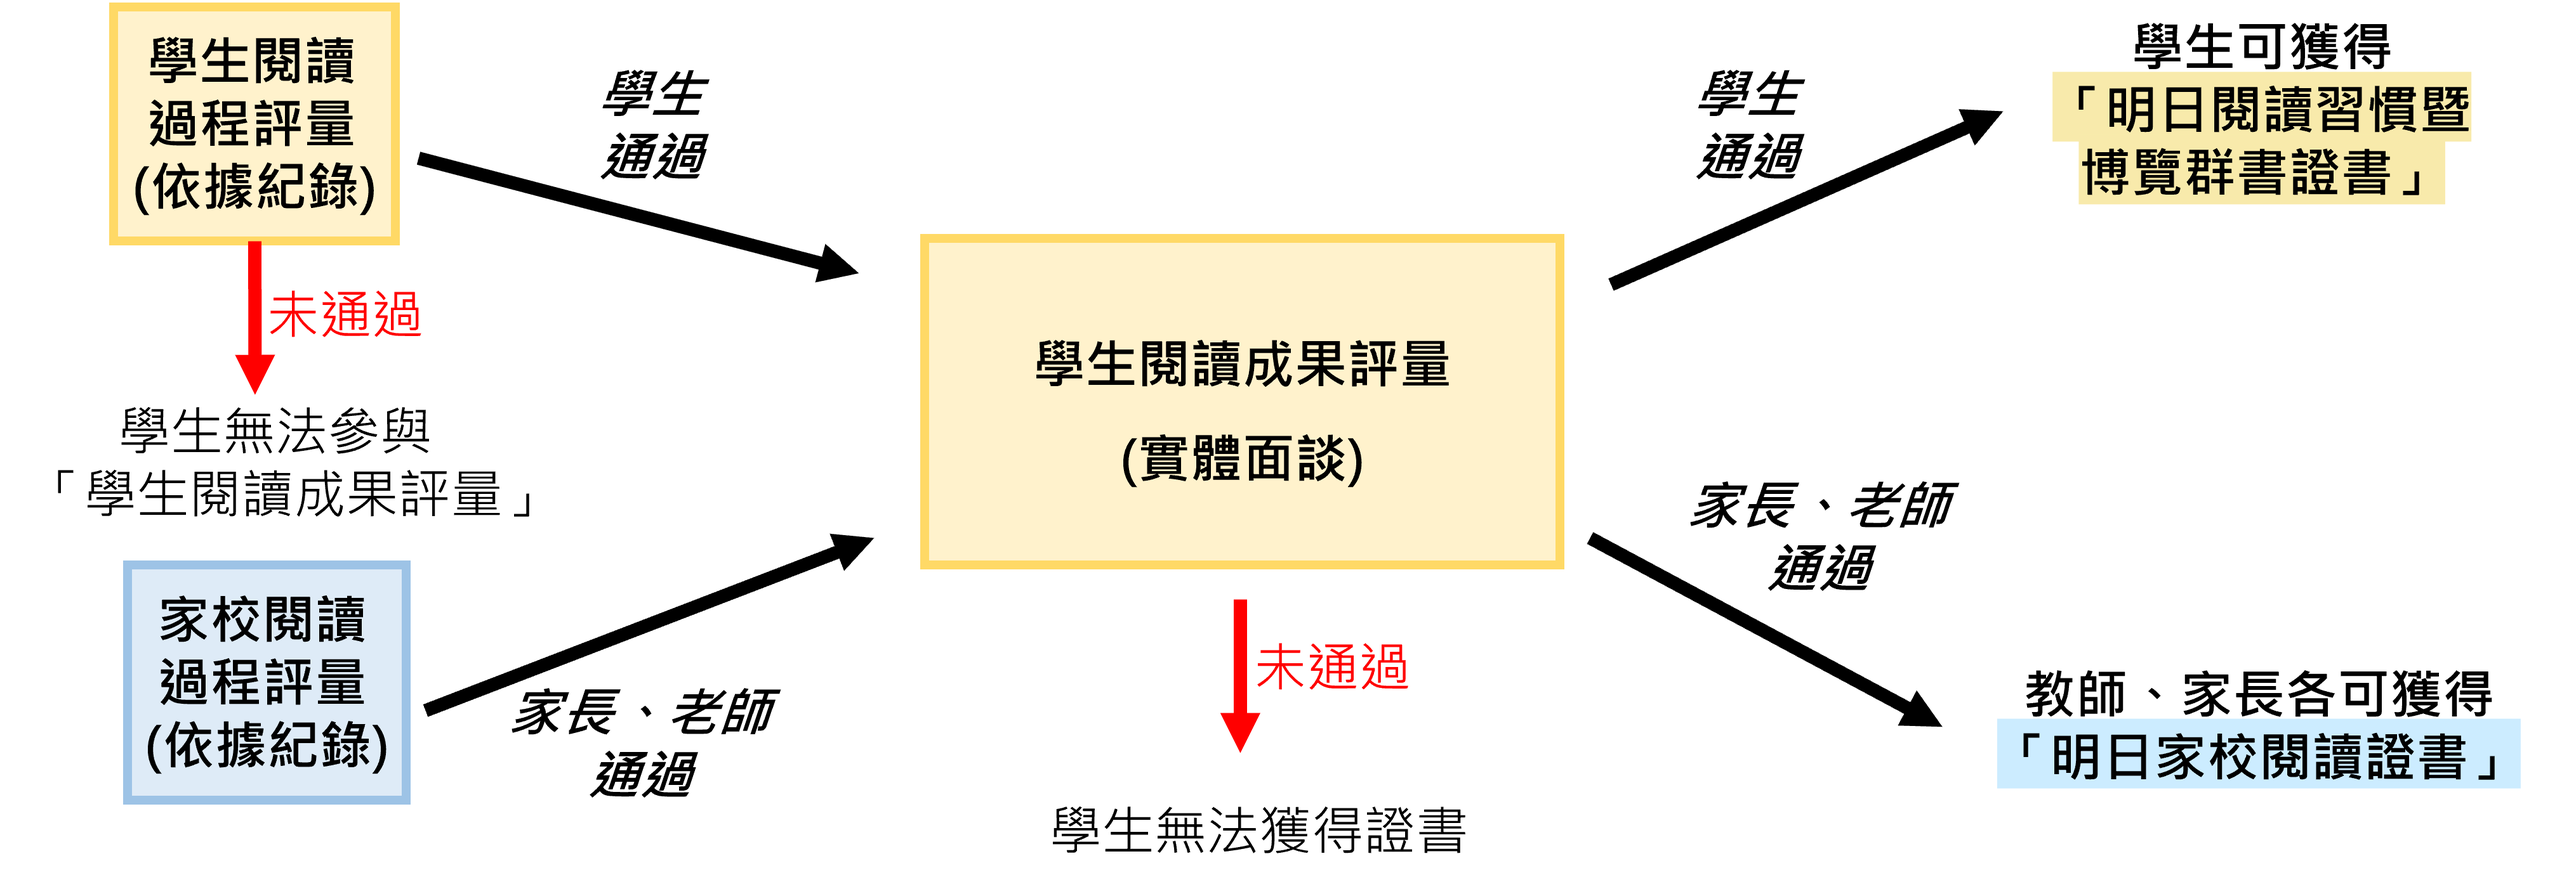
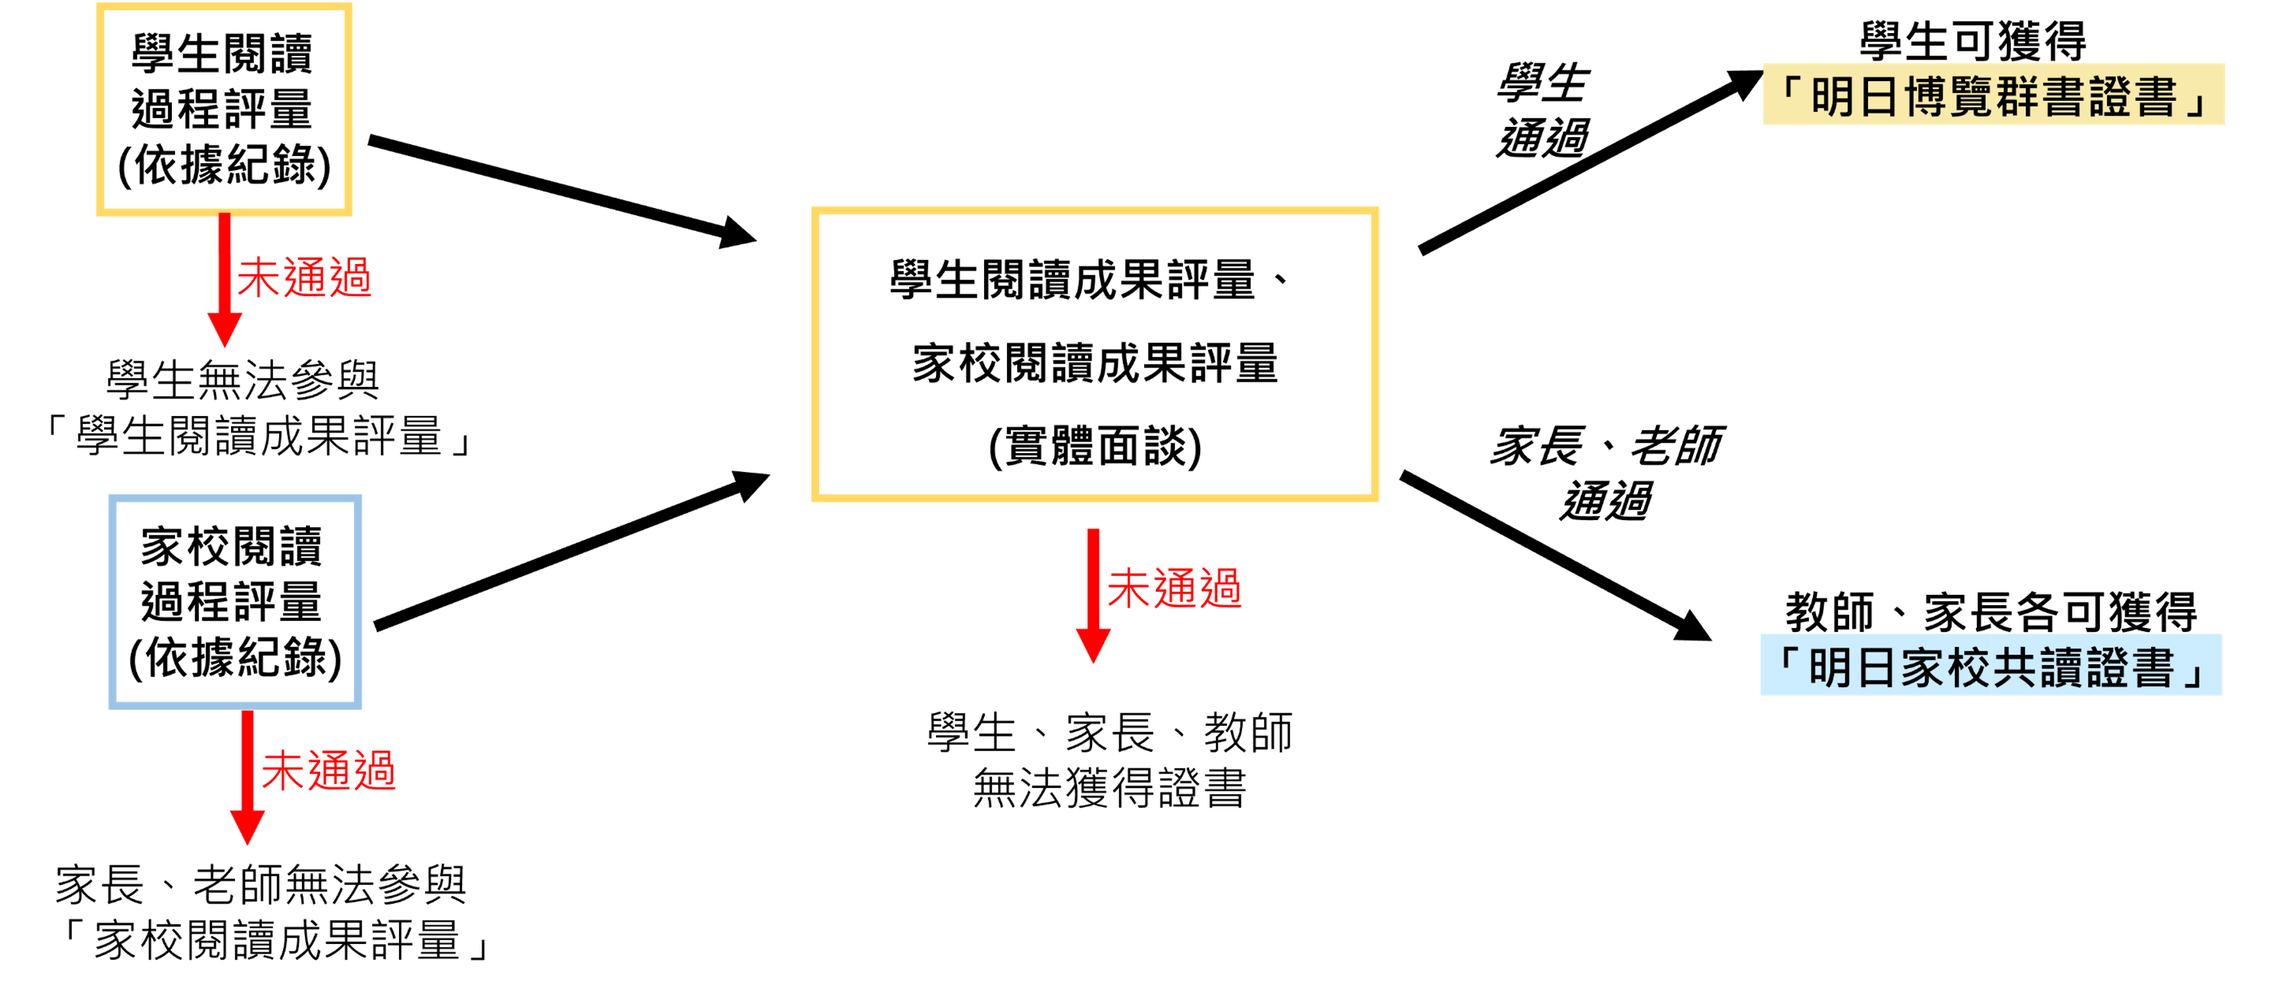
第二屆個人

diff --git a/2nd_session/student/index.html b/2nd_session/student/index.html
@@ -57,7 +57,7 @@
         <!-- Header -->
         <header class="primary-header bg-dark pt-3" style="color: yellow; font-size: 46px;">
             <div class="container text-center">
-                <div class="h1 fw-bold">「閱讀習慣運動」</div>
+                <div class="h1 fw-bold">「家校共讀運動」</div>
                 <div class="h4 fw-bold mt-3 pb-3" style="margin-bottom: 0;">學校帶動家庭，建立閱讀紙本書籍習慣以取代手機育兒</div>
             </div>
         </header>
@@ -297,11 +297,11 @@
                         <section class="certification-idea">
                             <div class="certification-idea-content">
                                 <div class="vertucal-text lh-lg">
-                                    <h1>閱讀習慣運動</h1>
+                                    <h1>家校共讀運動</h1>
                                     <h3>學校帶動家庭，建立閱讀紙本書籍習慣以取代手機育兒</h3>
                                     <p><br></p>
                                     <p>
-                                        因應數位時代教育的挑戰，國立中央大學推動「閱讀習慣運動」，以取代手機育兒。經過十多年推廣，台灣已有2,000多所國中小學參與「明日閱讀」計畫。在此基礎上，國立中央大學協同「中華明日閱讀協會」，正試辦「明日閱讀習慣博覽會」，從「明日閱讀1.0」演進為「明日閱讀2.0」，期以深化閱讀文化，培養學生長期穩定的閱讀紙本書習慣，為未來社會培育具備深度思維與知識力的新世代公民。
+                                        因應數位時代教育的挑戰，國立中央大學推動「家校共讀運動」，以取代手機育兒。經過十多年推廣，台灣已有2,000多所國中小學參與「明日閱讀」計畫。在此基礎上，國立中央大學協同「中華明日閱讀協會」，舉辦「明日閱讀習慣暨家校共讀博覽會」，從「明日閱讀1.0」演進為「明日閱讀2.0」，期以深化閱讀文化，培養學生長期穩定的閱讀紙本書習慣，為未來社會培育具備深度思維與知識力的新世代公民。
                                     </p>
                                     <p>
                                         數位媒體早已無所不在<span class="dash">—</span>在家裡、學校、辦公室、車上，甚至在皮包與口袋裡。
@@ -637,7 +637,7 @@
                             <div class="process-item">
                                 <h3 class="phase-title text-center">親師生閱讀登記平台</h3>
                                 <p style="text-align: justify; text-indent:0;">
-                                    活動期間須繳交「學生閱讀過程階段」及「家校閱讀過程階段」成果資料兩次，包含閱讀登記、照片與影片上傳、回饋表單填寫以及閱讀狀況討論，均使用「親師生閱讀登記平台」。進行登錄上傳。學生、家長、班級導師之個人專屬平台帳號與密碼將於報名成功後寄發。
+                                    活動期間須繳交「學生閱讀過程階段」及「家校閱讀過程階段」成果資料兩次，包含閱讀登記、照片與影片上傳、回饋表單填寫以及閱讀狀況討論，均使用「親師生閱讀登記平台」。進行登錄上傳。學生、家長、班級導師之個人專屬帳號與密碼將於報名成功後寄發。
                                 </p>
                                 <!-- <P> -->
                                 <a href="https://www.readingfortomorrow.org/vora.php" target="_blank">
@@ -760,7 +760,7 @@
                                         「學生閱讀過程評量」及「學生閱讀成果評量」審查均通過，授予學生【明日博覽群書證書】乙幀。
                                     </li>
                                     <li>
-                                        「家校閱讀過程評量」審查通過，授予班級導師及家長【明日家校閱讀證書】各乙幀。
+                                        「家校閱讀過程評量」審查通過，授予班級導師及家長【明日家校共讀證書】各乙幀。
                                     </li>
                                 </ol>
                             </div>
@@ -835,7 +835,7 @@
                                 <div class="book-item">
                                     <h5 class="phase-title text-center">博覽群書及三大領域介紹</h5>
                                     <p>
-                                        為了有系統地幫助親師引導學生閱讀的書籍能兼顧廣度與深度，「明日閱讀習慣及家校閱讀博覽會」每屆依據教師與專家學者的建議， 更新
+                                        為了有系統地幫助親師引導學生閱讀的書籍能兼顧廣度與深度，「明日閱讀習慣暨家校共讀博覽會」每屆依據教師與專家學者的建議， 更新
                                         <strong>『書籍地圖』</strong>，作為親師生選書與閱讀規劃的參考依據。
                                     </p>
                                     <p>
@@ -956,40 +956,40 @@
                             <!-- 閱讀規劃（預設顯示） -->
                             <section class="tab-pane fade show fade book" id="readingPlan">
                                 <div class="book-item ">
-                                    <h5 class="phase-title text-center">各等級書目程度說明</h5>
+                                    <h5 class="phase-title text-center">各級別書目程度</h5>
                                     <p style="text-indent: 0;">
                                         ◆&nbsp<strong>國小二年級等級：</strong>以國小二年級程度書籍為主，一年級難度書籍為輔；<br> ◆&nbsp
                                         <strong>國小四年級等級：</strong>以國小四年級程度書籍為主，三年級難度書籍為輔；<br> ◆&nbsp
                                         <strong>國小六年級等級：</strong>以國小六年級程度書籍為主，五年級難度書籍為輔；<br> ◆&nbsp
                                         <strong>國中級等級：</strong>以國中二年級程度書籍為主，國中一、三年級難度書籍為輔；<br> ◆&nbsp
-                                        <strong>高中級等級：</strong>以高中二年級程度書籍為主，高中一、三年級難度書籍為輔。<br> 各年級書籍由專家老師挑選，並參考教育部推薦書單與文化部推薦書單。
+                                        <strong>高中級等級：</strong>以高中二年級程度書籍為主，高中一、三年級難度書籍為輔。<br> 本活動所訂定之各等級書目，由專家教師評選，並參考教育部及文化部推薦書單。
                                         </span>
                                         <!--（每兩屆會請專家老師調整書）-->
                                     </p>
                                     <p>
-                                        參與認證的學生可自行評估閱讀能力，挑選合適的認證級別，並針對該認證級別的規劃及書籍內容進行閱讀活動。<br> 例如：二年級學生可報名二年級等級或四年級等級，四年級學生可報名四年級等級或國中等級，六年級學生可報名六年級等級或高中等級，並依照該等級的認證規劃進行閱讀活動。
+                                        參與認證的學生可自行評估閱讀能力，挑選合適的認證級別，並針對該認證級別的規劃及書籍內容進行閱讀活動。<br> 學生可依自身閱讀能力，擇一等級參加。[例]四年級學生評估自身閱讀能力後，可選擇參加四年級等級，或六年級等級，或國中等級認證。
                                     </p>
                                 </div>
                                 <!-- 書籍種類介紹 -->
                                 <div class="book-item">
                                     <h5 class="phase-title text-center">書籍種類</h5>
                                     <p>
-                                        各等級書目中，規劃三種書籍種類：核心書、選讀書、自選書，為學生提供系統性且多元的閱讀指引，逐步拓展其閱讀視野。
+                                        各級別書目均劃分三種類書籍：核心書、選讀書、自選書，為學生提供系統性且多元的閱讀指引，逐步拓展其閱讀視野。
                                     </p>
                                     <p>
                                         ◆&nbsp<strong>核心書：</strong> 由多位專家教師於
                                         <span class="bold">科學技術、故事小說、人文社會</span>以及<span class="bold">跨域</span>四大領域中，評選與推薦適合不同學習階段的書籍。
                                     </p>
                                     <p>
-                                        ◆&nbsp<strong>選讀書：</strong> 由
-                                        <span class="bold">科學技術、故事小說</span>以及<span class="bold">人文社會</span>三大領域中獲獎與文化部及教育部推薦之書籍。
+                                        ◆&nbsp<strong>選讀書：</strong>含括
+                                        <span class="bold">科學技術、故事小說</span>以及<span class="bold">人文社會</span>三大領域之獲獎書籍，以及文化部、教育部推薦書籍。
                                     </p>
                                     <p>
-                                        ◆&nbsp<strong>自選書：</strong> 鼓勵家長定期帶領學生前往圖書館或書店選書、借閱或購買書籍，以促進親子互動，同時培養學生自主探索的能力，並建立個人閱讀興趣與習慣，
-                                        <strong>學生須自行選擇本書籍地圖以外的書籍作為自選閱讀書目</strong>。惟不可選讀漫畫、雜誌、工具書。
+                                        ◆&nbsp<strong>自選書：</strong> 鼓勵家長定期帶領學生前往圖書館或書店選書、借閱或購買書籍，以促進親子互動，同時培養學生自主探索的能力，並建立個人閱讀興趣與習慣。
+                                        <strong>學生須自行選擇本書籍地圖以外的書籍作為自選閱讀書目</strong>，惟不可選讀漫畫、雜誌、工具書。
                                     </p>
                                     <p>
-                                        參與認證與比賽活動期間，各認證級別提供固定書目（如下表）。
+                                        本活動所訂定之各級別書目，其總數如下表。
                                     </p>
                                     <div class="container">
                                         <div class="table-responsive">
@@ -1038,8 +1038,10 @@
                                 <div class="book-item">
                                     <h5 class="phase-title text-center">認證積分說明</h5>
                                     <p style="text-indent: 0;"><strong>計分規則：</strong></p>
-                                    <p> ◆&nbsp<strong>閱讀積分 = </strong>書籍種類積分 + 書籍深度積分 （例如：登記 1 本深度為「橋梁書」的「核心書」= 25 + 5，可獲得 30 分。）</p>
-                                    <p> ◆&nbsp<strong>說書積分 = </strong>每上傳 1 部「自選書」說書影片可加 25 分，每月最多上傳 2 部。</p>
+                                    <p> ◆&nbsp<strong>閱讀積分 = </strong>書籍種類積分 + 書籍深度積分
+                                        <br>&nbsp;&nbsp;&nbsp;&nbsp;&nbsp;&nbsp;[例]登記 1 本深度為「橋梁書」的「核心書」= 25 + 5，可獲得 30 分。
+                                        <br>&nbsp;&nbsp;&nbsp;&nbsp;&nbsp;&nbsp;[例]登記1本深度為「中階文字書」的「選讀書」，可獲得15 + 20 = 35分。</p>
+                                    <p> ◆&nbsp<strong>說書積分 = </strong>每上傳 1 部「自選書」說書影片可獲得 25 分，每月上傳至多 2 部。</p>
                                     <p> ◆&nbsp<strong>認證總積分 = </strong>閱讀總積分 +說書總積分</p>
                                     <div class="container">
                                         <p style="text-indent: 0;"><strong>書籍種類積分：</strong></p>
@@ -1063,7 +1065,7 @@
                                                 </tbody>
                                             </table>
                                         </div>
-                                        <p style="text-indent: 0;"><strong>書籍深度積分：</strong></p>
+                                        <p style="text-indent: 0;"><strong>書籍深度積分：（自選書不列入計算書籍深度積分）</strong></p>
                                         <div class="table-responsive">
                                             <table class="table table-striped table-bordered text-center align-middle mx-auto" style="width: 90%; table-layout: auto;">
                                                 <thead>
@@ -1269,9 +1271,9 @@
                                 <h5 class="phase-title text-center ">認證等級</h5>
                                 <!-- <ol>
                                 <li>本活動每位學生<span class="bold">新台幣1,000元</span>整。
-                                <li>過程階段中途退出或未通過者，予以退費新台幣300元整。
-                                <li>持有清寒證明或中低收入戶證明者，免收報名費。
-                            </ol> -->
+                                        <li>過程階段中途退出或未通過者，予以退費新台幣300元整。
+                                            <li>持有清寒證明或中低收入戶證明者，免收報名費。
+                                                </ol> -->
                                 <p>本活動設有5等級閱讀認證，分別為【國小二年級】、【國小四年級】、【國小六年級】、【國中級】、【高中級】，學生可依自身閱讀能力，擇一等級報名參加。[例]四年級學生評估自身閱讀能力後，可選擇報名四年級等級，或六年級等級，或國中等級認證。 </p>
                             </div>
                             <div class="apply-item">

diff --git a/2nd_session/school/index.html b/2nd_session/school/index.html
@@ -219,7 +219,7 @@
                                 <h3>學校帶動家庭，建立閱讀紙本書籍習慣以取代手機育兒</h3>
                                 <p><br></p>
                                 <p>
-                                    因應數位時代教育的挑戰，國立中央大學推動「閱讀習慣運動」，以取代手機育兒。經過十多年推廣，台灣已有2,000多所國中小學參與「明日閱讀」計畫。在此基礎上，國立中央大學協同「中華明日閱讀協會」，正試辦「明日閱讀習慣博覽會」，從「明日閱讀1.0」演進為「明日閱讀2.0」，期以深化閱讀文化，培養學生長期穩定的閱讀紙本書習慣，為未來社會培育具備深度思維與知識力的新世代公民。
+                                    因應數位時代教育的挑戰，國立中央大學推動「閱讀習慣運動」，以取代手機育兒。經過十多年推廣，台灣已有2,000多所國中小學參與「明日閱讀」計畫。在此基礎上，國立中央大學協同「中華明日閱讀協會」，正舉辦「明日閱讀習慣博覽會」，從「明日閱讀1.0」演進為「明日閱讀2.0」，期以深化閱讀文化，培養學生長期穩定的閱讀紙本書習慣，為未來社會培育具備深度思維與知識力的新世代公民。
                                 </p>
                                 <p>
                                     數位媒體早已無所不在<span class="dash">—</span>在家裡、學校、辦公室、車上，甚至在皮包與口袋裡。
